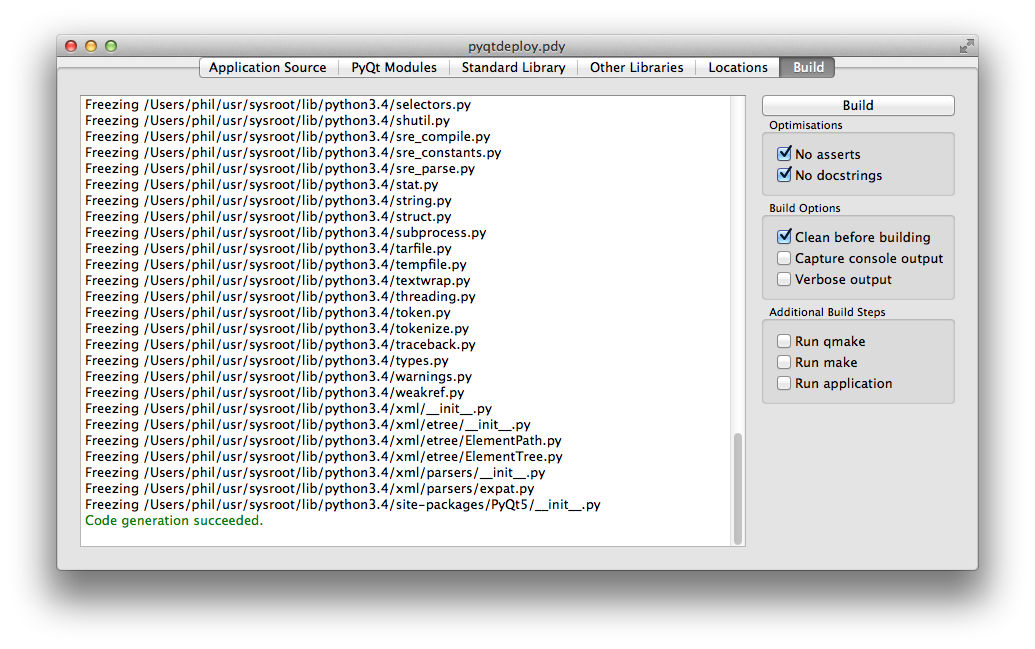
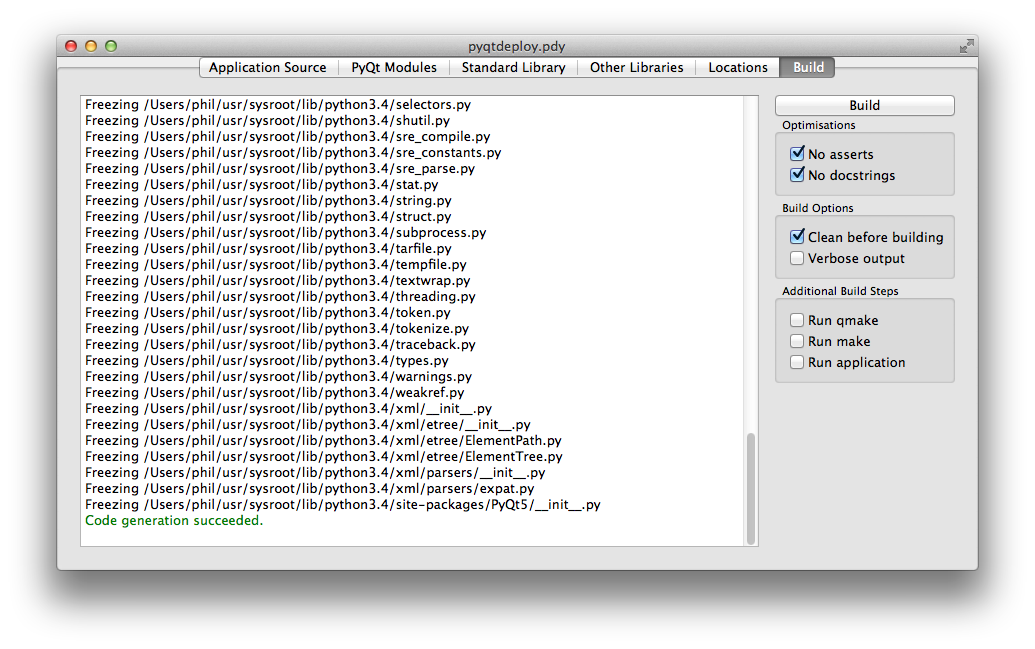
Implemented support for explicit console applications. Implemented support for non-bundle OS/X applications.

Changed region(s): [[0.7111, 0.1541, 0.9275, 0.8629]]

diff --git a/pyqtdeploy/builder/builder.py b/pyqtdeploy/builder/builder.py
@@ -52,7 +52,7 @@ class Builder():
         self._project = project
         self._message_handler = message_handler
 
-    def build(self, opt, build_dir=None, clean=False, console=False):
+    def build(self, opt, build_dir=None, clean=False):
         """ Build the project in a given directory.  Raise a UserException if
         there is an error.
         """
@@ -119,8 +119,8 @@ class Builder():
         freeze = self._copy_lib_file(self._get_lib_file_name('freeze.python'),
                 dst_file_name='freeze.py')
 
-        self._write_qmake(build_dir, required_ext, required_libraries, console,
-                freeze, opt)
+        self._write_qmake(build_dir, required_ext, required_libraries, freeze,
+                opt)
 
         # Freeze the bootstrap.
         py_major, py_minor = project.python_target_version
@@ -275,7 +275,7 @@ class Builder():
 
         return package_src_dir, package_name
 
-    def _write_qmake(self, build_dir, required_ext, required_libraries, console, freeze, opt):
+    def _write_qmake(self, build_dir, required_ext, required_libraries, freeze, opt):
         """ Create the .pro file for qmake. """
 
         project = self._project
@@ -315,10 +315,13 @@ class Builder():
         both_config.add('release')
         both_config.add('warn_on')
 
-        if not needs_gui or console:
+        if not needs_gui or project.application_is_console:
             both_config.add('console')
 
         f.write('CONFIG += {0}\n'.format(' '.join(both_config)))
+
+        if not project.application_is_bundle:
+            f.write('CONFIG -= app_bundle\n')
 
         if not needs_gui:
             f.write('QT -= gui\n')

diff --git a/pyqtdeploy/gui/build_page.py b/pyqtdeploy/gui/build_page.py
@@ -80,8 +80,6 @@ class BuildPage(QWidget):
 
         self._clean_button = QCheckBox("Clean before building", checked=True)
         options_layout.addWidget(self._clean_button)
-        self._console_button = QCheckBox("Capture console output")
-        options_layout.addWidget(self._console_button)
         self._verbose_button = QCheckBox("Verbose output")
         options_layout.addWidget(self._verbose_button)
 
@@ -143,8 +141,7 @@ class BuildPage(QWidget):
             opt = 0
 
         try:
-            builder.build(opt, clean=bool(self._clean_button.checkState()),
-                    console=bool(self._console_button.checkState()))
+            builder.build(opt, clean=bool(self._clean_button.checkState()))
         except UserException as e:
             logger.user_exception(e)
             handle_user_exception(e, self.label, self)
@@ -192,7 +189,7 @@ class BuildPage(QWidget):
             if sys.platform == 'win32':
                 application = os.path.join(build_dir, 'Release',
                         exe_name + '.exe')
-            elif sys.platform == 'darwin':
+            elif sys.platform == 'darwin' and project.application_is_bundle:
                 application = os.path.join(build_dir, exe_name + '.app',
                         'Contents', 'MacOS', exe_name)
             else:

diff --git a/pyqtdeploy/gui/application_page.py b/pyqtdeploy/gui/application_page.py
@@ -113,11 +113,11 @@ class ApplicationPage(QWidget):
         self._pyqt_versions_bg.buttonToggled.connect(
                 self._pyqt_version_changed)
 
-        self._console_edit = QCheckBox("Console application (Windows)",
+        self._console_edit = QCheckBox("Use console (Windows)",
                 stateChanged=self._console_changed)
         options_layout.addWidget(self._console_edit)
 
-        self._bundle_edit = QCheckBox("Application bundle (OS X)",
+        self._bundle_edit = QCheckBox("Application bundle (OS/X)",
                 stateChanged=self._bundle_changed)
         options_layout.addWidget(self._bundle_edit)
 

diff --git a/pyqtdeploy/main_gui.py b/pyqtdeploy/main_gui.py
@@ -38,7 +38,8 @@ def main():
 
     from PyQt5.QtWidgets import QApplication
 
-    from . import Project, ProjectGUI
+    from . import Project
+    from .gui import ProjectGUI
 
     app = QApplication(sys.argv, applicationName='pyqtdeploy',
                 organizationDomain='riverbankcomputing.com',

diff --git a/pyqtdeploy/__init__.py b/pyqtdeploy/__init__.py
@@ -26,7 +26,6 @@
 
 # Publish the package's API.
 from .builder import Builder
-from .gui import ProjectGUI
 from .message_handler import MessageHandler
 from .packages import configure_package, get_supported_packages
 from .project import Project

diff --git a/doc/tutorial.rst b/doc/tutorial.rst
@@ -175,15 +175,27 @@ The tab for defining the application source is shown below.
 **PyQt4**
     is used to specify that the application is a PyQt4 application.
 
-**Scan...**
-    is clicked to specify the name of the directory containing the Python
-    package that implements the application.  (If the application consists of a
-    single script then you would not use this.)  The hierachy will be scanned
-    for all files and directories that don't match any of the specified
-    exclusions and will be displayed in the main area of the tab.  Each file or
-    directory can then be checked if it is to be included in the package.  Note
-    that if the main script file is a part of the application package then it's
-    entry must be explicitly unchecked (i.e. excluded).
+**Use console (Windows)**
+    is checked if the application should use a console.  Specifically it adds
+    ``console`` to the value of ``CONFIG`` in the generated ``.pro`` file and
+    only affects Windows applications.  Normally this is handled automatically
+    and a console is used only if the application does not use any GUI related
+    PyQt module.  However it may be usefull during testing of deployed GUI
+    applications to ensure that tracebacks (e.g. about missing modules) are
+    captured and displayed.
+
+**Application bundle (OS/X)**
+    is checked if the application should be built as a bundle and only affects
+    OS/X applications.  It would normally be unchecked for command line (i.e.
+    non-GUI) applications.
+
+**Application Package Directory**
+    contains the hierachy of files and directories that implement the
+    application package and any associated data.  It is populated by clicking
+    the **Scan...** button.  Each file or directory can then be checked if it
+    is to be included in the package.  Note that if the main script file is a
+    part of the application package then it's entry must be explicitly
+    unchecked (i.e. excluded).
 
     .. note::
         Non-Python (i.e. data) files can also be included in the package.  An
@@ -193,6 +205,13 @@ The tab for defining the application source is shown below.
         the data file.  This approach will also work with deployed applications
         so long as the file is accessed using the :class:`~PyQt5.QtCore.QFile`
         class (rather than the standard Python file access functions).
+
+**Scan...**
+    is clicked to specify the name of the directory containing the Python
+    package that implements the application.  (If the application consists of a
+    single script then you would not use this.)  The hierachy will be scanned
+    for all files and directories that don't match any of the specified
+    exclusions and will be displayed in the **Application Package Directory**.
 
 **Remove all**
     is clicked to remove all the scanned files and directories.
@@ -405,17 +424,11 @@ The main area of the tab shows the output of the various stages of the build.
     Python code.
 
 **Clean before building**
-    is clicked to specify that the build directory is deleted and recreated
+    is checked to specify that the build directory is deleted and recreated
     before starting a new build.
 
-**Capture console output**
-    is clicked to specify that ``console`` is always added to the ``CONFIG``
-    variable in the generated ``.pro`` file.  This is only useful on Windows
-    and ensures that, even for a GUI application, tracebacks (e.g. about
-    missing modules) are captured and displayed.
-
 **Verbose output**
-    is clicked specify that additional information is displayed during the
+    is checked specify that additional information is displayed during the
     build process.
 
 **Run qmake**
